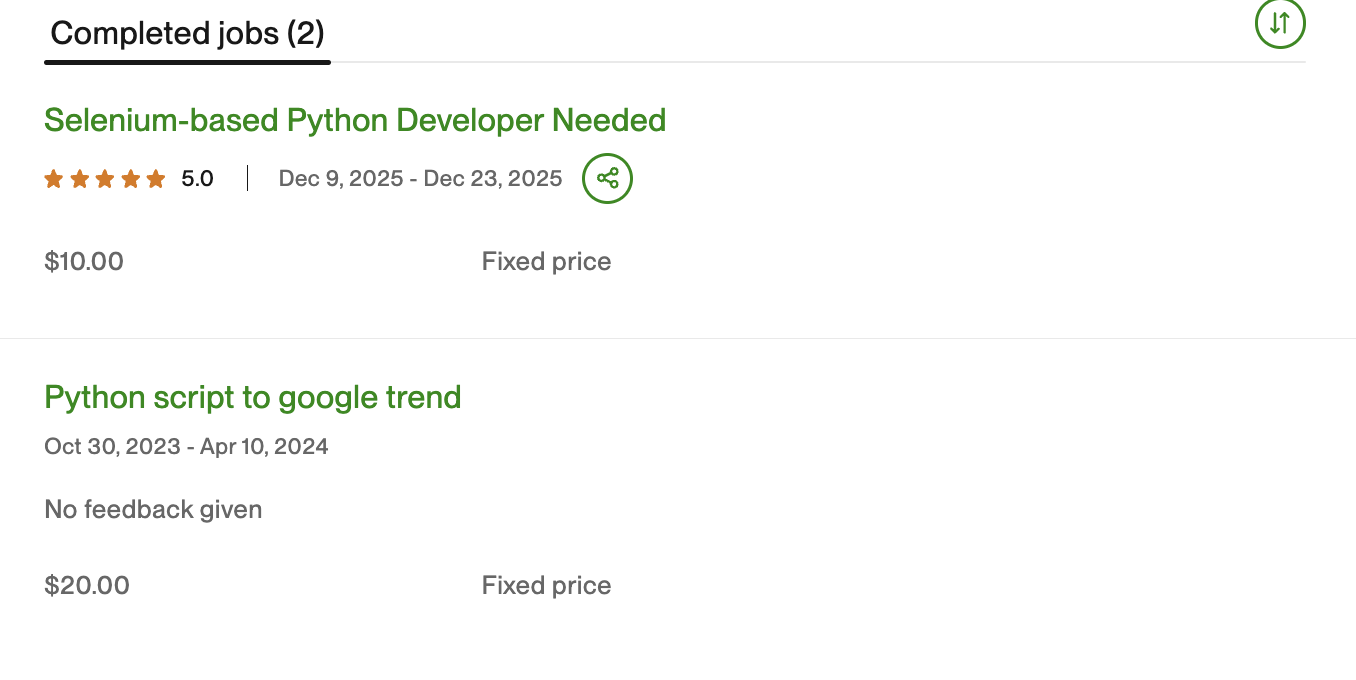
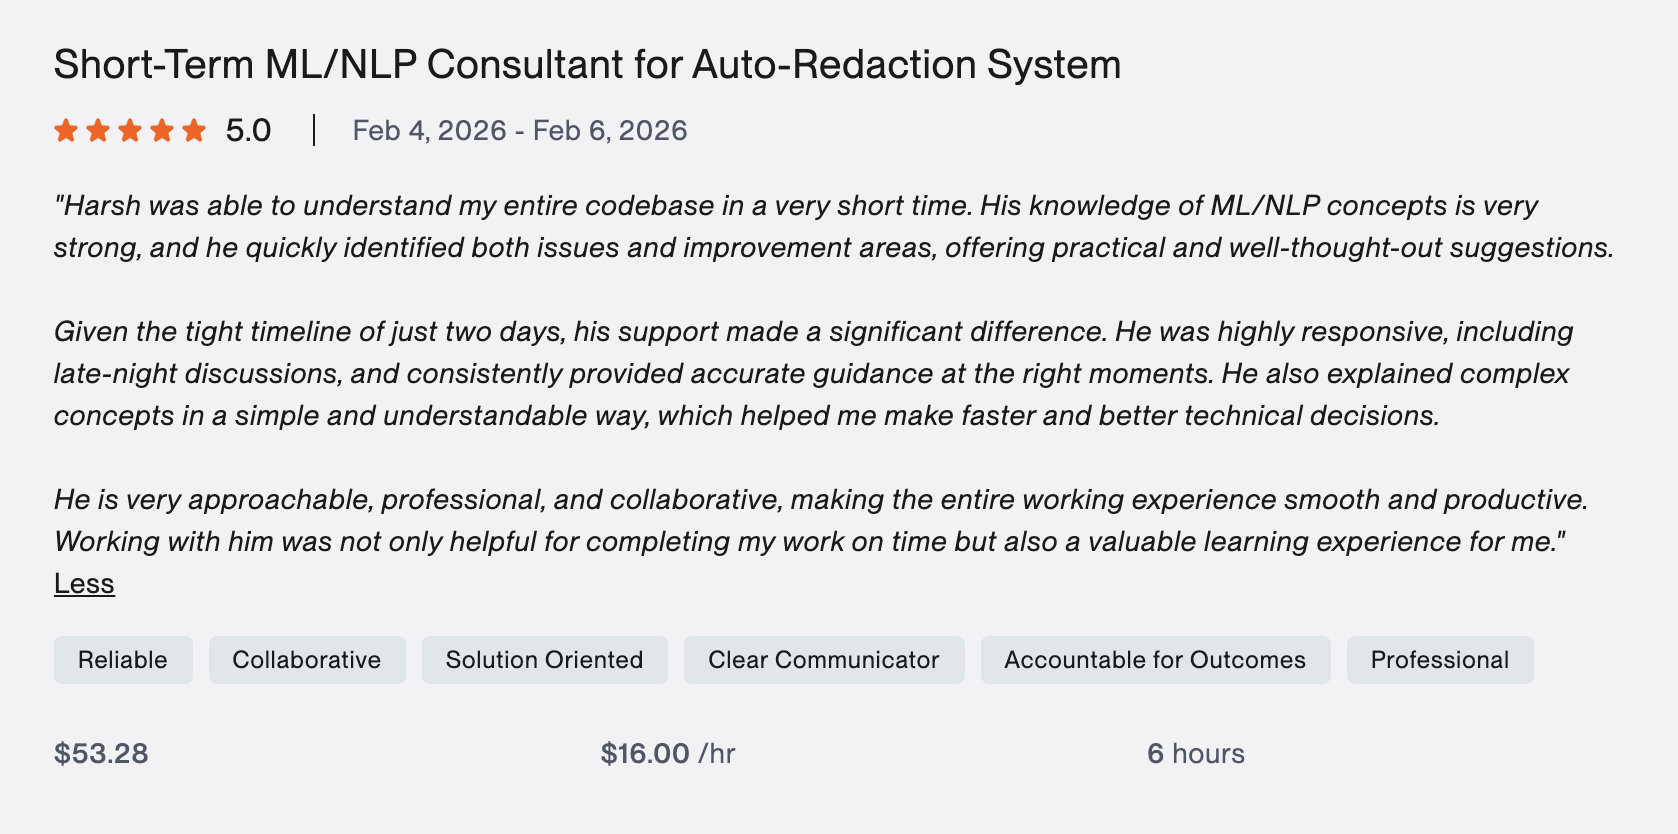
exprince chnages

diff --git a/src/components/Experience/Experience.js b/src/components/Experience/Experience.js
@@ -1,4 +1,4 @@
-// import React from "react";
+ // import React from "react";
 // import { Container, Row, Col } from "react-bootstrap";
 // import Particle from "../Particle";
 // import ExperienceCard from "./ExperienceCard";
@@ -558,8 +558,13 @@ import megalor from "../../Assets/Experience/megamindalor.png";
 import megacertificate from "../../Assets/Experience/megaminds certificate .png";
 import upwork from "../../Assets/Experience/Upwork 1.png";
 import upwork2 from "../../Assets/Experience/Upwork profile 2.png";
+import upwork3 from "../../Assets/Experience/upwork3.png";
+import upwork4 from "../../Assets/Experience/upwork4.png";
 import freelancer from "../../Assets/Experience/Freelancer profile.png";
 import freelancerlogo from "../../Assets/Experience/images (5).png";
+import compucom from "../../Assets/Experience/compucom-logo.jpeg";
+import compucomImg1 from "../../Assets/Experience/compucom-img1.png";
+import compucomImg2 from "../../Assets/Experience/compucom-img2.png";
 
 // Certificate imports
 import cert1 from "../../Assets/Certificates /cert1.png";
@@ -622,13 +627,66 @@ function Experience() {
         </Row>
 
         <Row className="justify-content-center g-3">
+
+
+
+          {/* ────────────── Compucom ────────────── */}
+          <Col xs={12} md={10}>
+            <ExperienceCard
+              role="Future AI Engineer"
+              company="CompuCom"
+              logo={compucom}
+              duration="February 2026 - Present"
+              points={[
+                "Integrating AI into the CC Teams project, an Agentic platform to drive automation and enhance core functionality by 30%.",
+                "Architecting and deploying complete platform using LangChain, LangGraph, LangSmith, Agent Core, and RAG to enable intelligent decision-making.",
+                "Experienced in corporate development practices using Jira, Bitbucket, and VMs, delivering projects collaborating across teams."
+              ]}
+              images={[compucomImg1, compucomImg2]}
+              description={`**Future AI Engineer — Compucom**
+
+At Compucom, I am working as a **Future AI Engineer**, contributing to the development of an enterprise-grade agentic AI platform called **CC Teams**. This role has given me deep exposure to building and shipping **production-grade agentic systems** from the ground up, using the latest AI orchestration frameworks.
+
+**CC Teams — Agentic Platform**
+
+CC Teams is an internal collaboration and automation platform powered by AI agents. My core responsibility is integrating intelligent agents into the platform to automate workflows, reduce manual effort, and improve overall team productivity by **30%**.
+
+**Technical Architecture**
+
+The platform is built using a modern AI stack:
+
+1. **LangChain & LangGraph** — for designing multi-step agentic workflows and managing agent state across complex tasks.
+
+2. **LangSmith** — for observability, tracing, and debugging of agent pipelines in production.
+
+3. **Agent Core & RAG** — for building retrieval-augmented generation pipelines that enable agents to make intelligent, context-aware decisions using internal knowledge bases.
+
+**Corporate Engineering Practices**
+
+Working at Compucom has strengthened my understanding of professional software development workflows. I use **Jira** for sprint planning and task tracking, **Bitbucket** for version control and code reviews, and work within **VM-based environments** to simulate production deployments. I collaborate daily with cross-functional teams including backend engineers, product managers, and QA.
+
+**Overall Impact**
+
+This role has been instrumental in shaping my understanding of how agentic AI systems behave in real enterprise environments — from prompt design and tool calling to agent memory, error handling, and production reliability.`}
+              projects={[
+                {
+                  name: "CC Teams — Agentic Platform",
+                  desc: "Architected and integrated a multi-agent AI system into CC Teams using LangChain, LangGraph, LangSmith, and RAG pipelines, automating core workflows and enhancing platform functionality by 30%."
+                }
+              ]}
+              modalImages={[compucomImg1, compucomImg2]}
+              companyWebsite={[
+                { name: "Compucom", url: "https://www.compucom.com/" }
+              ]}
+            />
+          </Col>       
           {/* ────────────── Caprae Capital ────────────── */}
           <Col xs={12} md={10}>
             <ExperienceCard
               role="ML Intern"
               company="Caprae Capital"
               logo={capri}
-              duration="August 2025 - December 2025"
+              duration="August 2025 - January 2026"
               points={[
                 "Increased lead conversion by 15% by integrating machine learning into Caprae Capital's proprietary SaaSquatch Leads.",
                 "Developed an in-house recruiting platform with the team, automating 70% of manual screening tasks.",
@@ -752,7 +810,7 @@ Overall, my internship at Megaminds IT Services was a highly enriching experienc
               points={[
                 "Delivered projects on domain involving Python, AI/ML, automation, data scraping, and data science.",
                 "Maintained high client satisfaction and repeat contracts",
-                "Completed 7+ freelancing projects on platforms like Freelancer and Upwork."
+                "Completed 10+ freelancing projects on platforms like Freelancer and Upwork."
               ]}
               images={[upwork, freelancer]}
               description={`**Freelancer — Python, ML/DL Developer**
@@ -788,7 +846,7 @@ Overall, freelancing strengthened my ability to translate client requirements in
                   desc: "Built a Python-based Instagram automation bot that monitors story viewers and analyzes user bios. Automatically sends personalized text and voice messages, enhancing targeted engagement." 
                 }
               ]}
-              modalImages={[upwork, upwork2, freelancer]}
+              modalImages={[upwork, upwork2, upwork3, upwork4, freelancer]}
               profileLinks={[
                 { name: "Upwork Profile", url: "https://www.upwork.com/freelancers/~010e98a8e17c0f005b?mp_source=share" },
                 { name: "Freelancer Profile", url: "https://www.freelancer.in/u/Harshrajmishra24?sb=t" }
